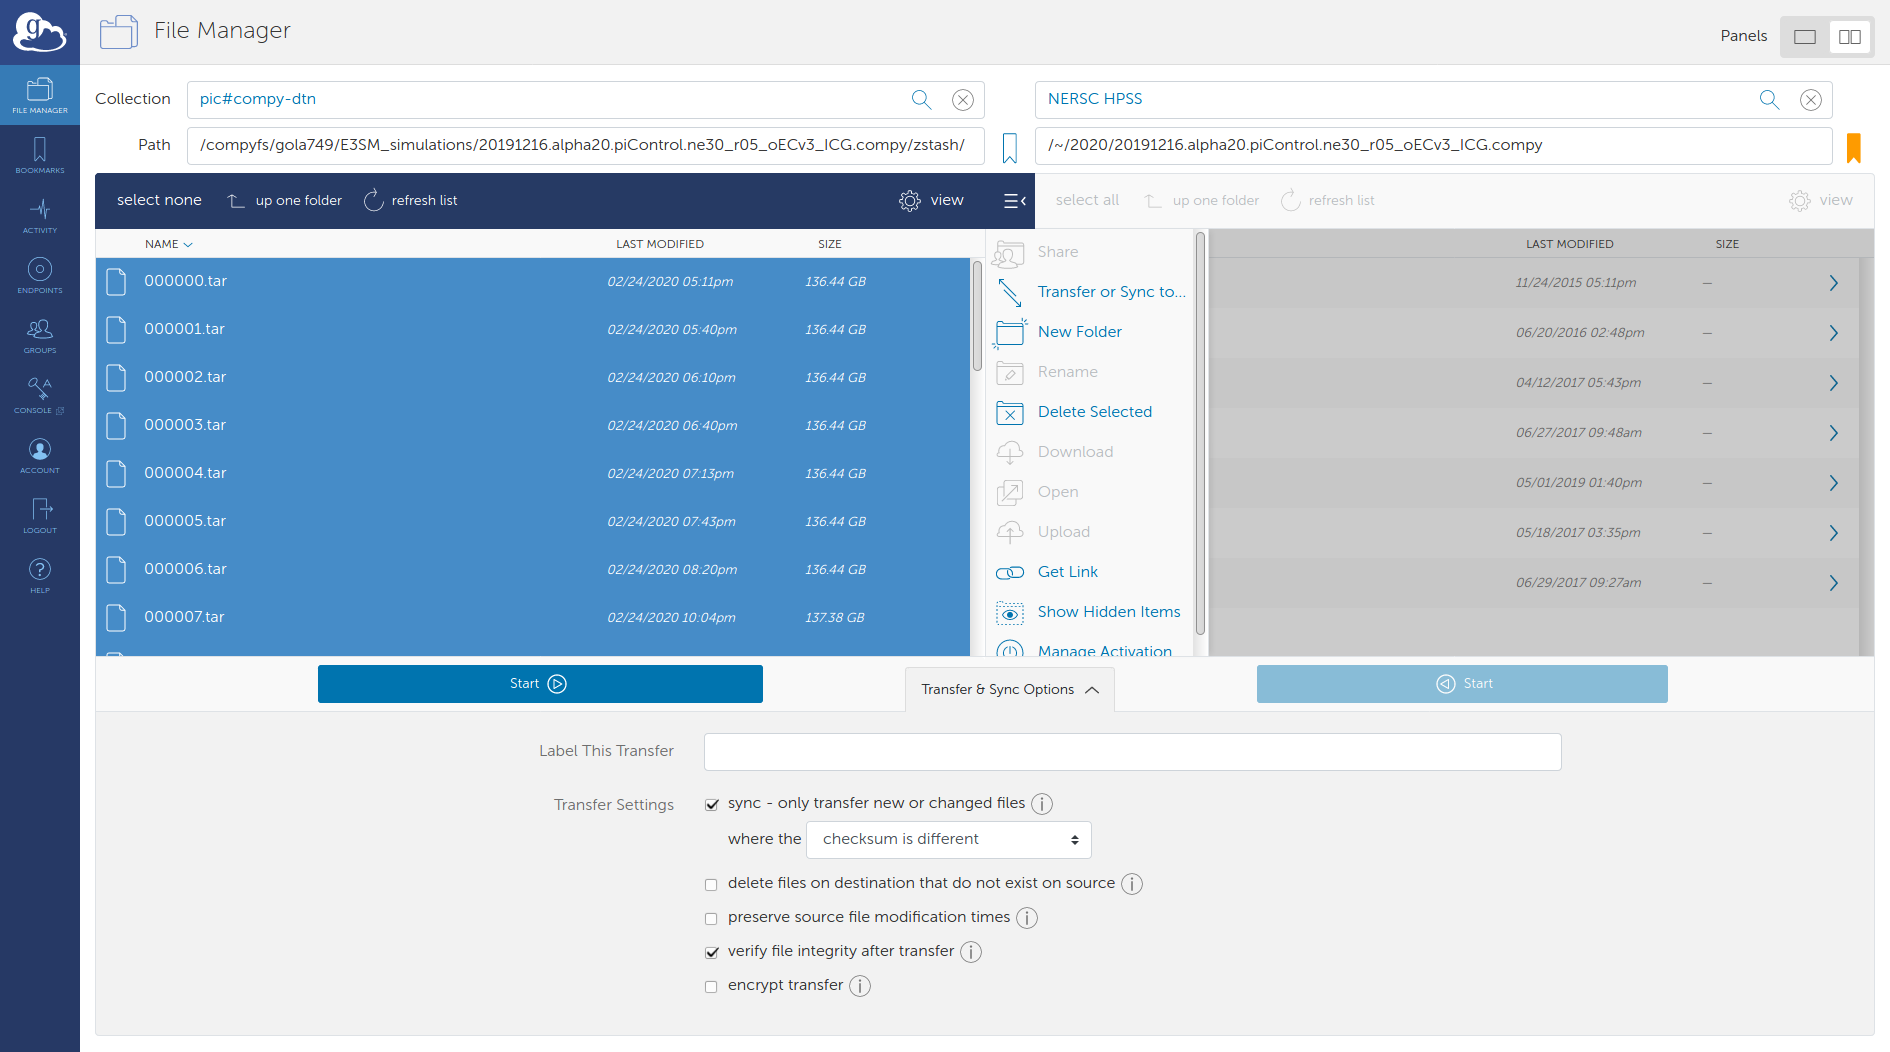
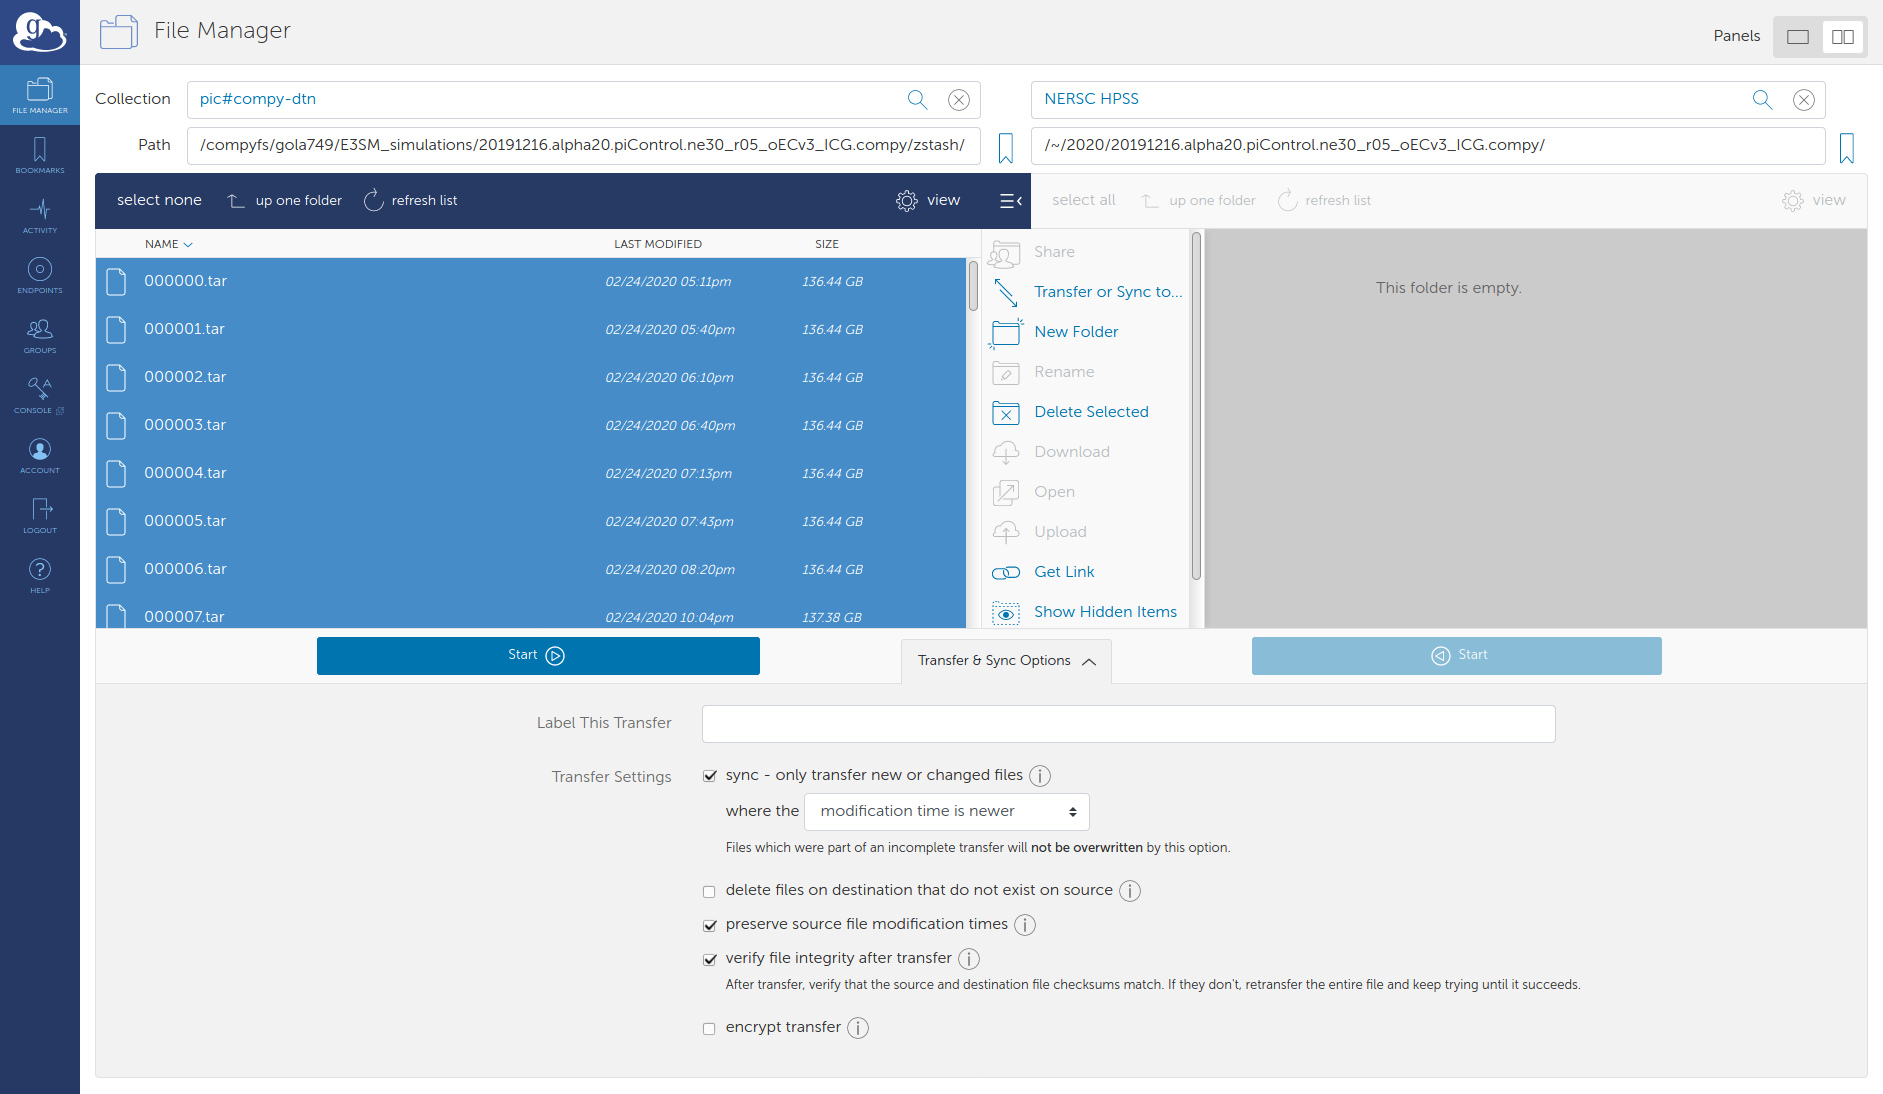
Updated screenshot and Globus sync instructions.

diff --git a/docs/html/searchindex.js b/docs/html/searchindex.js
@@ -1,1 +1,1 @@
-Search.setIndex({docnames:["best_practices","contributing","database","design","getting_started","index","support","usage"],envversion:{"sphinx.domains.c":1,"sphinx.domains.changeset":1,"sphinx.domains.citation":1,"sphinx.domains.cpp":1,"sphinx.domains.javascript":1,"sphinx.domains.math":2,"sphinx.domains.python":1,"sphinx.domains.rst":1,"sphinx.domains.std":1,sphinx:56},filenames:["best_practices.rst","contributing.rst","database.rst","design.rst","getting_started.rst","index.rst","support.rst","usage.rst"],objects:{},objnames:{},objtypes:{},terms:{"00000a":[2,7],"256gb":7,"68gb":3,"byte":2,"case":[1,7],"default":[1,3,7],"function":[0,3,7],"import":1,"long":[0,3,5],"new":[0,1,4,6,7],"return":[0,7],"short":[0,7],"static":1,"try":[0,1],"while":[0,3,5],But:0,For:[0,1,2,3,4,5,7],GBs:3,Its:5,The:[0,1,2,3,7],Then:4,There:0,Use:0,Using:[5,7],With:0,__read:0,abil:3,abl:0,about:[3,7],abov:[0,1,7],accept:1,access:0,accomplish:0,accord:7,acm:[0,4],acme_simul:7,across:3,activ:[0,1,4],adapt:[0,1],add:[0,1,7],added:7,addit:[5,7],adjust:3,advis:7,after:[0,4,7],again:[0,7],against:[0,7],aggreg:3,aim:3,alabast:1,all:[0,2,3,4,7],allow:3,along:[0,3,7],alpha20:0,alreadi:[3,7],also:[0,3,6],amount:[0,3,5],anaconda2:0,anaconda3:4,anaconda:[1,4],anaconda_env:[0,4],analysi:4,ani:[0,1,7],anoth:[0,7],anvil:5,app:4,append:7,appli:1,approach:[3,7],approxim:3,archiv:[2,3,4,5,7],arg:2,argument:[0,3,7],atm:7,atmospher:7,attach:0,avail:[1,2,4,5],avoid:7,back:[0,1],bandwidth:7,bash:[0,4],bdist:0,beauti:1,becaus:[0,3],been:[0,7],befor:[4,7],being:7,belong:[0,7],below:[0,1,3,4,7],best:[4,5],between:[0,3,7],beyond:2,block_siz:0,both:[3,7],branch:[1,4],brandl:1,browser:1,brute:3,bsd:1,buf:0,build:[0,1,7],builddir:1,buildir:1,bundl:3,button:0,cach:[0,3,7],call:0,cam:7,can:[0,1,2,3,4,6,7],cannot:3,care:1,case_script:7,caus:[0,7],caution:7,ce9bb79fb60fdef2ca4c2c29afc54776:7,certain:7,cfb388d9c4ffe3bf45985fa470855801:7,chang:[1,7],charact:3,check:5,checkout:[4,5],checksum:[0,2,3,5,7],choic:7,cime:0,clean:1,clear:1,click:0,clone:[1,4],close:[0,7],code:[4,5],column:7,com:[1,4,5],comma:7,command:[0,3,4,7],commit:1,common:4,compar:[3,5],compi:5,complet:[0,7],complic:5,comput:[0,3,5],compyf:0,conda:5,condit:3,conf:1,config:2,configur:[0,1,2],consequ:2,conserv:[0,7],consid:0,consider:5,consist:2,contact:7,contain:[1,3,7],content:[1,3,5],contribut:5,copi:[0,7],cori:[4,7],cori_cle7:4,corrupt:[0,7],could:7,cput:5,creat:[0,2,3,4,5],creation:[0,3],credenti:0,cscratch1:[0,7],cscratch:7,csh:4,ctrl:0,current:[0,7],dai:0,damag:7,data:[0,4,7],databas:[0,3,5,7],deal:3,debug:7,decid:7,deckv1:7,deckv1b_picontrol:[0,7],deem:3,delet:7,depend:[4,7],design:[5,7],desir:7,destin:[0,7],detach:0,detail:[4,7],develop:7,diagnost:4,didn:7,differ:[3,7],digit:3,direct:[1,2],directli:[1,2,3,4],directori:[0,1,3,7],disconnect:0,discret:7,disk:[0,3,7],displai:7,doc:1,document:[0,3,7],doesn:0,doing:2,done:7,doubl:7,down:3,download:[0,3,7],dozen:3,drive:3,dry:7,dtn01:0,dtn:[0,4,7],due:0,dure:[0,3,5],e3sm:[1,3,5,7],e3sm_simul:[0,7],e8161bba53500848dc917258d1d8f56a:7,each:[2,7],easi:1,easili:0,echo:7,edison:[0,4,7],edit:5,effect:5,effici:7,egg:0,empti:[0,1,7],enabl:[3,5],enclos:7,encount:7,end:[0,7],endpoint:0,enhanc:6,enter:2,entir:[0,1,5],env:0,environ:[0,5],equiv:1,error:[0,7],etc:4,even:7,everi:[0,3,7],exampl:[0,2],exce:[3,7],except:[1,3,7],exclud:0,execut:4,exist:[0,3,4,7],explor:5,express:7,extract:[0,3,5],extractfil:0,extrem:3,f20tr:7,fact:3,failur:0,fals:7,faster:[3,5,7],fdx:1,featur:[3,5],few:7,file:[0,1,2,3,5],filenam:0,fileobj:0,filesystem:0,fin:0,find:7,first:[0,1,3,4,5,7],fly:[3,5],folder:0,fole:2,follow:[0,1,2,4,7],forc:[3,4],forg:4,form:3,format:3,found:0,fresh:1,from:[0,1,2,3,5,7],full:[0,3,7],furthermor:3,futur:6,gather:7,gener:[0,3],georg:1,get:5,get_html_theme_path:1,git:[1,4],github:[1,4,5,6],glob:2,global:[0,4,7],globu:0,gola749:0,golaz:[0,7],gov:[0,4],great:3,green:0,group:[3,7],had:7,happen:0,hard:5,has:[0,7],have:[0,1,4,7],head:1,help:[2,7],here:1,hexadecim:3,high:7,highli:[0,7],hist:[0,7],hold:7,home:[0,7],how:1,howev:[3,4,7],hpss:[3,5,7],hsi:7,htar:5,html:1,html_theme:1,html_theme_path:1,http:[0,1,4,5],hundr:3,ideal:3,identifi:7,improv:4,includ:3,index:[0,1,2,3,5,7],indic:1,individu:[0,3,5,7],ineffici:3,info:[0,7],inform:[0,1,2,3,7],initi:5,input:[3,5,7],inspir:3,instal:[1,5],instead:[3,4,7],instruct:[0,1,2,4],integ:2,integr:[0,3,5],intellig:1,intend:7,intention:5,interact:2,interfac:0,invok:0,isn:[3,7],issu:[6,7],its:[1,2,3,5,7],jekyl:1,just:[4,5],keep:[4,7],kei:[2,5],kill:0,kind:0,lack:3,languag:1,larg:[0,3,5],larger:3,last:0,later:0,latest:4,leav:7,leftmost:0,len:0,length:3,less:3,let:7,level:[1,3,7],lib:0,librari:5,licens:1,like:0,limit:[3,7],line:[0,3,7],link:3,linux:0,list:[0,2,3,5],load:[0,1,3,4,7],load_latest_e3sm_unifi:[0,4],local:[0,1,3,5,7],locat:[0,2,3,5,7],log:[0,7],login:0,machin:[1,4,7],made:[1,6,7],mai:[1,3,4,7],maintain:[1,3,5],make:[1,3,4],makefil:1,manag:0,mani:3,manipul:3,manual:4,markup:1,master:[1,4],match:[0,2,7],max:7,maximum:[0,3,5,7],maxsiz:[0,3,7],md5:[0,2,3,5,7],member:3,meta:1,metadata:[2,5],might:[0,2],min:7,minimalist:5,mismatch:0,mkdir:[0,7],mod:7,model:[0,3],modif:[1,2,3,5],modifi:[1,7],modul:[1,4],monthli:7,more:[0,1,4,7],most:[0,7],mpaso:[0,7],mtime:[2,7],multipl:3,must:[4,7],mydir:[1,2,7],name:[1,2,3,7],navig:0,ne30_ne30:7,ne30_oec:[0,7],ne30_r05_oecv3_icg:0,need:[4,7],nersc:[1,3,5,7],never:[3,7],newli:0,nice:3,node:[0,4,7],nojekyl:1,none:[0,7],normal:7,note:7,noth:7,now:[1,7],num:7,number:[0,3,7],occasion:1,ocn:[0,7],offer:3,offset:[2,3,5,7],old:1,onc:[0,1,7],one:[0,2,7],ones:3,onli:[0,3,5,7],open:[1,6,7],optim:3,option:[0,1,7],org:0,origin:[0,1,7],other:[2,3],otherwis:4,out:[1,7],output:[0,3,7],overli:5,page:[0,1,3],pane:0,parallel:[0,7],paramet:2,particular:7,pass:[0,7],path:[0,1,2,3,7],pathnam:3,pattern:[2,7],perform:[0,4,7],picontrol:[0,7],pin:0,pip:1,pleas:[0,4,6,7],posit:3,potenti:7,power:0,practic:[3,4,5],prefix:3,presenc:7,present:[0,3,7],previou:4,primari:2,primer:1,print:[0,2],problem:6,process:[0,7],profil:4,project:[0,1,4,5],projectdir:[0,4],prompt:4,properli:1,provid:5,purpos:3,push:1,put:3,python2:0,python3:1,python:[4,5],quickstart:[1,4],quit:2,quot:7,rais:0,read:0,readerror:0,readnorm:0,readthedoc:1,rebuild:1,recal:7,recent:0,recogn:7,recommen:2,recommend:[0,3,4,7],recurs:3,ref:1,refer:[4,5],refresh:1,regard:0,rel:[2,3,7],remov:[1,4],reorgan:0,repositori:[1,4],requir:3,rerun:7,resid:3,respond:3,rest:[0,7],restart:[0,7],restrict:3,restructuredtext:1,result:[3,7],retriev:[3,5,7],reupload:7,risk:7,rmdir:1,rsa:0,run:[0,2,4,6,7],safe:0,safest:0,same:7,satisfi:1,save:[0,3,5,7],schema:2,screen:0,search:0,second:0,section:[4,7],see:[0,1,3,4,7],seem:0,select:[0,2],self:0,separ:[1,3,5,7],sequenti:3,serv:[1,3],session:0,set:1,setup:[4,5],sever:[0,3],share:4,shell:[4,7],should:[0,1,7],show:3,similar:3,similarli:3,simplest:4,simpli:[0,1,3,7],simul:[0,3,4,7],sinc:[3,7],singl:7,six:3,sixth:7,size:[0,2,3,5,7],skip:7,slow:[3,7],small:[3,7],smaller:[3,7],softwar:[0,4],solut:5,some:3,someth:0,soon:4,sound:3,sourc:[0,1,5],space:[0,3,7],special:1,specif:[0,2,3,5,7],specifi:[2,3,5,7],sphinx:1,sphinx_rtd_them:1,split:[3,7],spread:3,sql:2,sqlite3:[2,3,5,7],sqlite:2,ssh:0,standard:[3,5,7],start:[0,1,5,7],statement:2,step:[1,3,5],stopper:3,storag:[0,3,7],store:[0,2,3,5,7],straightforward:0,structur:[0,5],sub:[0,1,7],subdirectori:[0,3,7],subset:0,substitut:7,success:7,successfulli:[0,3,7],suffer:3,suggest:[1,6],suitabl:3,summar:0,support:[0,3,5,7],sure:[1,4],symbol:1,sync:0,system:[3,7],tabl:2,tag:4,take:[0,7],tape:3,tar:[0,2,3,5,7],tarfil:0,target:[3,7],team:7,tee:0,term:[0,5,7],termin:2,test:7,text:2,than:[3,7],thei:[0,1,3,7],them:[0,1,3,7],theme:1,therefor:7,thi:[0,3,5,7],thing:1,those:7,though:7,thu:3,time:[0,2,3,5],timeseriesstatsmonthli:[0,7],timestamp:2,togeth:3,too:3,tool:[1,5],top:[1,3,7],touch:1,traceback:0,transfer:[3,4,5,7],two:[0,1,2,3,7],txt:7,typic:[0,3],under:[0,1,3,7],understand:2,unexpect:0,unifi:[0,5],uniqu:7,unix:0,unless:[1,2],updat:5,upload:[0,3,7],url:1,usag:5,use:[0,4,5,7],used:[1,7],useful:2,user:[3,4,5,7],usernam:0,uses:[1,3],using:[0,1,3,5,6,7],util:[0,3],valid:7,valu:2,vari:3,veri:3,verifi:[0,3,5,7],version:[2,4,5],via:[4,7],view:[1,7],wai:[0,4],want:[4,7],web:[0,1],websit:1,well:[1,3,4,5,7],were:[3,7],what:[0,2,7],when:[0,3,7],where:[2,7],which:[0,2,3,5,7],why:5,wildcard:7,window:0,within:[0,2,3,5,7],without:[0,3,5,7],word:7,work:[3,7],worker:[0,7],would:[3,7],write:1,written:[1,5],www:0,x86_64:0,year:[0,7],you:[0,1,2,3,4,6,7],your:[0,1,3,7],yourself:4,zshaheen:0,zstash:[0,1,2,4,6,7],zstash_check_20200225:0,zstash_create_20190226:0,zstash_create_20200224:0,zstash_env:4,zstash_env_v0:0,zstash_update_20190226:0},titles:["Best practices for E3SM","Contributing to this documentation","Database","Design considerations","Getting started","Zstash documentation","Support","Usage"],titleterms:{Using:4,anvil:0,archiv:0,basic:7,best:0,check:[0,7],checkout:1,compi:[0,4],conda:[1,4],consider:3,content:2,contribut:1,cput:3,creat:[1,7],databas:2,design:3,document:[1,5],e3sm:[0,4],edit:1,environ:[1,4],exampl:7,exclud:7,explor:2,extract:7,file:7,from:4,get:4,hpss:0,htar:3,initi:1,instal:4,just:3,list:7,nersc:[0,4],onli:1,practic:0,refer:1,setup:1,some:7,sourc:4,start:4,structur:2,support:6,thi:1,transfer:0,unifi:4,updat:[0,4,7],usag:7,use:3,using:4,version:7,what:5,why:3,zstash:[3,5]}})
+Search.setIndex({docnames:["best_practices","contributing","database","design","getting_started","index","support","usage"],envversion:{"sphinx.domains.c":1,"sphinx.domains.changeset":1,"sphinx.domains.citation":1,"sphinx.domains.cpp":1,"sphinx.domains.javascript":1,"sphinx.domains.math":2,"sphinx.domains.python":1,"sphinx.domains.rst":1,"sphinx.domains.std":1,sphinx:56},filenames:["best_practices.rst","contributing.rst","database.rst","design.rst","getting_started.rst","index.rst","support.rst","usage.rst"],objects:{},objnames:{},objtypes:{},terms:{"00000a":[2,7],"256gb":7,"68gb":3,"byte":2,"case":[1,7],"default":[1,3,7],"function":[0,3,7],"import":1,"long":[0,3,5],"new":[0,1,4,6,7],"return":[0,7],"short":[0,7],"static":1,"try":[0,1],"while":[0,3,5],But:0,For:[0,1,2,3,4,5,7],GBs:3,Its:5,The:[0,1,2,3,7],Then:4,There:0,Use:0,Using:[5,7],With:0,__read:0,abil:3,abl:0,about:[3,7],abov:[0,1,7],accept:1,access:0,accomplish:0,accord:7,acm:[0,4],acme_simul:7,across:3,activ:[0,1,4],adapt:[0,1],add:[0,1,7],added:7,addit:[5,7],adjust:3,advis:7,after:[0,4,7],again:[0,7],against:[0,7],aggreg:3,aim:3,alabast:1,all:[0,2,3,4,7],allow:3,along:[0,3,7],alpha20:0,alreadi:[0,3,7],also:[0,3,6],amount:[0,3,5],anaconda2:0,anaconda3:4,anaconda:[1,4],anaconda_env:[0,4],analysi:4,ani:[0,1,7],anoth:[0,7],anvil:5,app:4,append:7,appli:1,approach:[3,7],approxim:3,archiv:[2,3,4,5,7],arg:2,argument:[0,3,7],atm:7,atmospher:7,attach:0,avail:[1,2,4,5],avoid:7,back:[0,1],bandwidth:7,bash:[0,4],bdist:0,beauti:1,becaus:[0,3],been:[0,7],befor:[4,7],being:7,belong:[0,7],below:[0,1,3,4,7],best:[4,5],between:[0,3,7],beyond:2,block_siz:0,both:[3,7],branch:[1,4],brandl:1,browser:1,brute:3,bsd:1,buf:0,build:[0,1,7],builddir:1,buildir:1,bundl:3,button:0,cach:[0,3,7],call:0,cam:7,can:[0,1,2,3,4,6,7],cannot:[0,3],care:1,case_script:7,caus:[0,7],caution:7,ce9bb79fb60fdef2ca4c2c29afc54776:7,certain:7,cfb388d9c4ffe3bf45985fa470855801:7,chang:[1,7],charact:3,check:5,checkout:[4,5],checksum:[0,2,3,5,7],choic:7,cime:0,clean:1,clear:1,click:0,clone:[1,4],close:[0,7],code:[4,5],column:7,com:[1,4,5],comma:7,command:[0,3,4,7],commit:1,common:4,compar:[3,5],compi:5,complet:[0,7],complic:5,comput:[0,3,5],compyf:0,conda:5,condit:3,conf:1,config:2,configur:[0,1,2],consequ:2,conserv:[0,7],consid:0,consider:5,consist:2,contact:7,contain:[1,3,7],content:[1,3,5],contribut:5,copi:[0,7],cori:[4,7],cori_cle7:4,corrupt:[0,7],could:7,cput:5,creat:[0,2,3,4,5],creation:[0,3],credenti:0,cscratch1:[0,7],cscratch:7,csh:4,ctrl:0,current:[0,7],dai:0,damag:7,data:[0,4,7],databas:[0,3,5,7],deal:3,debug:7,decid:7,deckv1:7,deckv1b_picontrol:[0,7],deem:3,delet:7,depend:[4,7],design:[5,7],desir:7,destin:[0,7],detach:0,detail:[4,7],develop:7,diagnost:4,didn:7,differ:[3,7],digit:3,direct:[1,2],directli:[1,2,3,4],directori:[0,1,3,7],disconnect:0,discret:7,disk:[0,3,7],displai:7,doc:1,document:[0,3,7],doesn:0,doing:2,done:7,doubl:7,down:3,download:[0,3,7],dozen:3,drive:3,dry:7,dtn01:0,dtn:[0,4,7],due:0,dure:[0,3,5],e3sm:[1,3,5,7],e3sm_simul:[0,7],e8161bba53500848dc917258d1d8f56a:7,each:[2,7],easi:1,easili:0,echo:7,edison:[0,4,7],edit:5,effect:5,effici:7,egg:0,empti:[0,1,7],enabl:[3,5],enclos:7,encount:7,end:[0,7],endpoint:0,enhanc:6,enter:2,entir:[0,1,5],env:0,environ:[0,5],equiv:1,error:[0,7],etc:4,even:7,everi:[0,3,7],exampl:[0,2],exce:[3,7],except:[1,3,7],exclud:0,execut:4,exist:[0,3,4,7],explor:5,express:7,extract:[0,3,5],extractfil:0,extrem:3,f20tr:7,fact:3,failur:0,fals:7,faster:[3,5,7],fdx:1,featur:[3,5],few:7,file:[0,1,2,3,5],filenam:0,fileobj:0,filesystem:0,fin:0,find:7,first:[0,1,3,4,5,7],fly:[3,5],folder:0,fole:2,follow:[0,1,2,4,7],forc:[3,4],forg:4,form:3,format:3,found:0,fresh:1,from:[0,1,2,3,5,7],full:[0,3,7],furthermor:3,futur:6,gather:7,gener:[0,3],georg:1,get:5,get_html_theme_path:1,git:[1,4],github:[1,4,5,6],glob:2,global:[0,4,7],globu:0,gola749:0,golaz:[0,7],gov:[0,4],great:3,green:0,group:[3,7],had:7,happen:0,hard:5,has:[0,7],have:[0,1,4,7],head:1,help:[2,7],here:1,hexadecim:3,high:7,highli:[0,7],hist:[0,7],hold:7,home:[0,7],how:1,howev:[3,4,7],hpss:[3,5,7],hsi:7,htar:5,html:1,html_theme:1,html_theme_path:1,http:[0,1,4,5],hundr:3,ideal:3,identifi:7,improv:4,includ:3,index:[0,1,2,3,5,7],indic:1,individu:[0,3,5,7],ineffici:3,info:[0,7],inform:[0,1,2,3,7],initi:5,input:[3,5,7],inspir:3,instal:[1,5],instead:[3,4,7],instruct:[0,1,2,4],integ:2,integr:[0,3,5],intellig:1,intend:7,intention:5,interact:2,interfac:0,invok:0,isn:[3,7],issu:[6,7],its:[1,2,3,5,7],jekyl:1,just:[4,5],keep:[4,7],kei:[2,5],kill:0,kind:0,lack:3,languag:1,larg:[0,3,5],larger:3,last:0,later:0,latest:4,leav:7,leftmost:0,len:0,length:3,less:3,let:7,level:[1,3,7],lib:0,librari:5,licens:1,like:0,limit:[3,7],line:[0,3,7],link:3,linux:0,list:[0,2,3,5],load:[0,1,3,4,7],load_latest_e3sm_unifi:[0,4],local:[0,1,3,5,7],locat:[0,2,3,5,7],log:[0,7],login:0,machin:[1,4,7],made:[1,6,7],mai:[1,3,4,7],maintain:[1,3,5],make:[1,3,4],makefil:1,manag:0,mani:3,manipul:3,manual:4,markup:1,master:[1,4],match:[0,2,7],max:7,maximum:[0,3,5,7],maxsiz:[0,3,7],md5:[0,2,3,5,7],member:3,meta:1,metadata:[2,5],might:[0,2],min:7,minimalist:5,mismatch:0,mkdir:[0,7],mod:7,model:[0,3],modif:[0,1,2,3,5],modifi:[1,7],modul:[1,4],monthli:7,more:[0,1,4,7],most:[0,7],mpaso:[0,7],mtime:[2,7],multipl:3,must:[4,7],mydir:[1,2,7],name:[1,2,3,7],navig:0,ne30_ne30:7,ne30_oec:[0,7],ne30_r05_oecv3_icg:0,need:[4,7],nersc:[1,3,5,7],never:[3,7],newer:0,newli:0,nice:3,node:[0,4,7],nojekyl:1,none:[0,7],normal:7,note:7,noth:7,now:[1,7],num:7,number:[0,3,7],occasion:1,ocn:[0,7],offer:3,offset:[2,3,5,7],old:1,onc:[0,1,7],one:[0,2,7],ones:3,onli:[0,3,5,7],open:[1,6,7],optim:3,option:[0,1,7],org:0,origin:[0,1,7],other:[2,3],otherwis:4,out:[1,7],output:[0,3,7],overli:5,page:[0,1,3],pane:0,parallel:[0,7],paramet:2,particular:7,pass:[0,7],path:[0,1,2,3,7],pathnam:3,pattern:[2,7],perform:[0,4,7],picontrol:[0,7],pin:0,pip:1,pleas:[0,4,6,7],posit:3,potenti:7,power:0,practic:[3,4,5],prefix:3,presenc:7,present:[0,3,7],preserv:0,previou:4,primari:2,primer:1,print:[0,2],problem:6,process:[0,7],profil:4,project:[0,1,4,5],projectdir:[0,4],prompt:4,properli:1,provid:5,purpos:3,push:1,put:3,python2:0,python3:1,python:[4,5],quickstart:[1,4],quit:2,quot:7,rais:0,read:0,readerror:0,readnorm:0,readthedoc:1,rebuild:1,recal:7,recent:0,recogn:7,recommen:2,recommend:[0,3,4,7],recurs:3,ref:1,refer:[4,5],refresh:1,regard:0,rel:[2,3,7],remov:[1,4],reorgan:0,repositori:[1,4],requir:3,rerun:7,resid:3,respond:3,rest:[0,7],restart:[0,7],restrict:3,restructuredtext:1,result:[3,7],retriev:[3,5,7],reupload:7,risk:7,rmdir:1,rsa:0,run:[0,2,4,6,7],safe:0,safest:0,same:7,satisfi:1,save:[0,3,5,7],schema:2,screen:0,search:0,second:0,section:[4,7],see:[0,1,3,4,7],seem:0,select:[0,2],self:0,separ:[1,3,5,7],sequenti:3,serv:[1,3],session:0,set:1,setup:[4,5],sever:[0,3],share:4,shell:[4,7],should:[0,1,7],show:3,similar:3,similarli:3,simplest:4,simpli:[0,1,3,7],simul:[0,3,4,7],sinc:[3,7],singl:7,six:3,sixth:7,size:[0,2,3,5,7],skip:7,slow:[3,7],small:[3,7],smaller:[3,7],softwar:[0,4],solut:5,some:3,someth:0,soon:4,sound:3,sourc:[0,1,5],space:[0,3,7],special:1,specif:[0,2,3,5,7],specifi:[2,3,5,7],sphinx:1,sphinx_rtd_them:1,split:[3,7],spread:3,sql:2,sqlite3:[2,3,5,7],sqlite:2,ssh:0,standard:[3,5,7],start:[0,1,5,7],statement:2,step:[1,3,5],stopper:3,storag:[0,3,7],store:[0,2,3,5,7],straightforward:0,structur:[0,5],sub:[0,1,7],subdirectori:[0,3,7],subset:0,substitut:7,success:7,successfulli:[0,3,7],suffer:3,suggest:[0,1,6],suitabl:3,summar:0,support:[0,3,5,7],sure:[1,4],symbol:1,sync:0,system:[3,7],tabl:2,tag:4,take:[0,7],tape:3,tar:[0,2,3,5,7],tarfil:0,target:[3,7],team:7,tee:0,term:[0,5,7],termin:2,test:7,text:2,than:[3,7],thei:[0,1,3,7],them:[0,1,3,7],theme:1,therefor:7,thi:[0,3,5,7],thing:1,those:7,though:7,thu:3,time:[0,2,3,5],timeseriesstatsmonthli:[0,7],timestamp:2,togeth:3,too:3,tool:[1,5],top:[1,3,7],touch:1,traceback:0,transfer:[3,4,5,7],two:[0,1,2,3,7],txt:7,typic:[0,3],under:[0,1,3,7],understand:2,unexpect:0,unifi:[0,5],uniqu:7,unix:0,unless:[1,2],updat:5,upload:[0,3,7],url:1,usag:5,use:[0,4,5,7],used:[1,7],useful:2,user:[3,4,5,7],usernam:0,uses:[1,3],using:[0,1,3,5,6,7],util:[0,3],valid:7,valu:2,vari:3,veri:3,verifi:[0,3,5,7],version:[2,4,5],via:[4,7],view:[1,7],wai:[0,4],want:[4,7],web:[0,1],websit:1,well:[1,3,4,5,7],were:[3,7],what:[0,2,7],when:[0,3,7],where:[0,2,7],which:[0,2,3,5,7],why:5,wildcard:7,window:0,within:[0,2,3,5,7],without:[0,3,5,7],word:7,work:[3,7],worker:[0,7],would:[3,7],write:1,written:[1,5],www:0,x86_64:0,year:[0,7],you:[0,1,2,3,4,6,7],your:[0,1,3,7],yourself:4,zshaheen:0,zstash:[0,1,2,4,6,7],zstash_check_20200225:0,zstash_create_20190226:0,zstash_create_20200224:0,zstash_env:4,zstash_env_v0:0,zstash_update_20190226:0},titles:["Best practices for E3SM","Contributing to this documentation","Database","Design considerations","Getting started","Zstash documentation","Support","Usage"],titleterms:{Using:4,anvil:0,archiv:0,basic:7,best:0,check:[0,7],checkout:1,compi:[0,4],conda:[1,4],consider:3,content:2,contribut:1,cput:3,creat:[1,7],databas:2,design:3,document:[1,5],e3sm:[0,4],edit:1,environ:[1,4],exampl:7,exclud:7,explor:2,extract:7,file:7,from:4,get:4,hpss:0,htar:3,initi:1,instal:4,just:3,list:7,nersc:[0,4],onli:1,practic:0,refer:1,setup:1,some:7,sourc:4,start:4,structur:2,support:6,thi:1,transfer:0,unifi:4,updat:[0,4,7],usag:7,use:3,using:4,version:7,what:5,why:3,zstash:[3,5]}})

diff --git a/docs/html/best_practices.html b/docs/html/best_practices.html
@@ -340,10 +340,23 @@ using your compy credentials (username, PIN+RSA).</p></li>
 </ul>
 <a class="reference internal image-reference" href="_images/Globus_Screenshot_3.png"><img alt="Globus screenshot, file manager" src="_images/Globus_Screenshot_3.png" style="width: 685.5px; height: 425.5px;" /></a>
 <ul class="simple">
-<li><p>Configure sync: select all source files in zstash folder, select destination endpoint
-and folder. Click ‘Start -&gt;’.</p></li>
+<li><p>Configure sync</p>
+<ul>
+<li><p>Select all source files in zstash folder.</p></li>
+<li><p>Select destination endpoint and folder (the Globus web interface cannot create new
+directories, so you will have to create the destination directory on NERSC HPSS is if
+doesn’t already exist).</p></li>
+<li><p>Suggested options for sync</p>
+<ul>
+<li><p>transfer files where the modification time is newer</p></li>
+<li><p>preserve source file modification time</p></li>
 </ul>
-<a class="reference internal image-reference" href="_images/Globus_Screenshot_4.png"><img alt="Globus screenshot, sync" src="_images/Globus_Screenshot_4.png" style="width: 945.0px; height: 526.0px;" /></a>
+</li>
+</ul>
+</li>
+<li><p>Click ‘Start -&gt;’.</p></li>
+</ul>
+<a class="reference internal image-reference" href="_images/Globus_Screenshot_4.png"><img alt="Globus screenshot, sync" src="_images/Globus_Screenshot_4.png" style="width: 941.5px; height: 547.0px;" /></a>
 </div>
 </div>
 </div>

diff --git a/source/best_practices.rst b/source/best_practices.rst
@@ -187,8 +187,18 @@ Globus.
    :scale: 50%
    :alt: Globus screenshot, file manager
 
-* Configure sync: select all source files in zstash folder, select destination endpoint 
-  and folder. Click 'Start ->'.
+* Configure sync
+  
+  - Select all source files in zstash folder.
+  - Select destination endpoint and folder (the Globus web interface cannot create new
+    directories, so you will have to create the destination directory on NERSC HPSS is if
+    doesn't already exist).
+  - Suggested options for sync
+
+    - transfer files where the modification time is newer
+    - preserve source file modification time
+
+* Click 'Start ->'.
 
 .. image:: globus/Globus_Screenshot_4.png
    :scale: 50%
